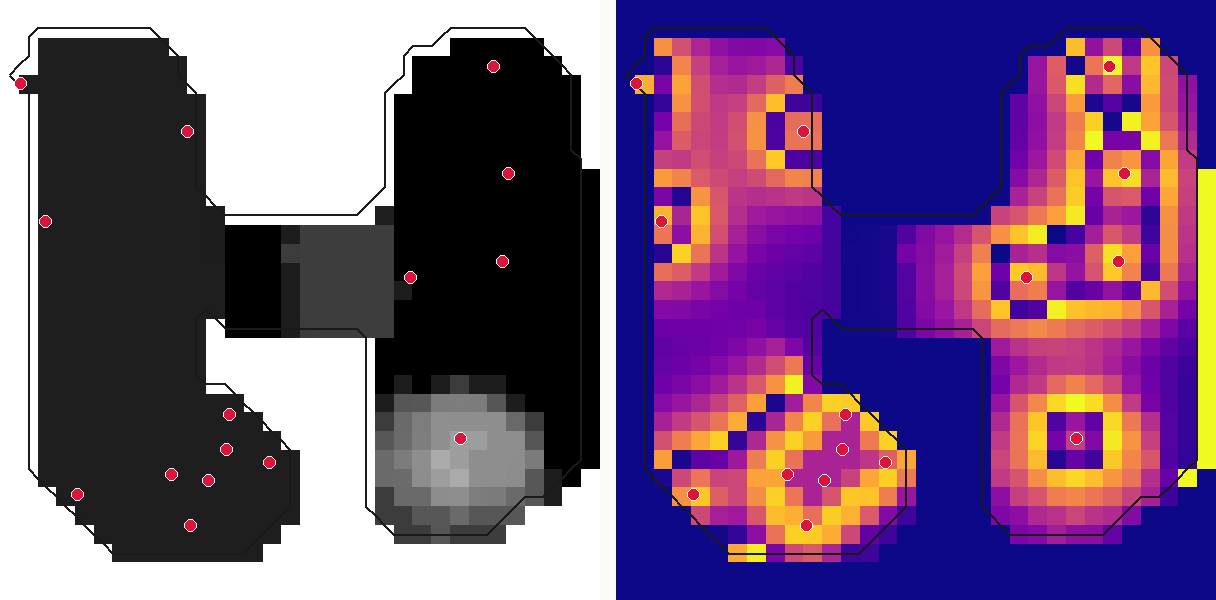
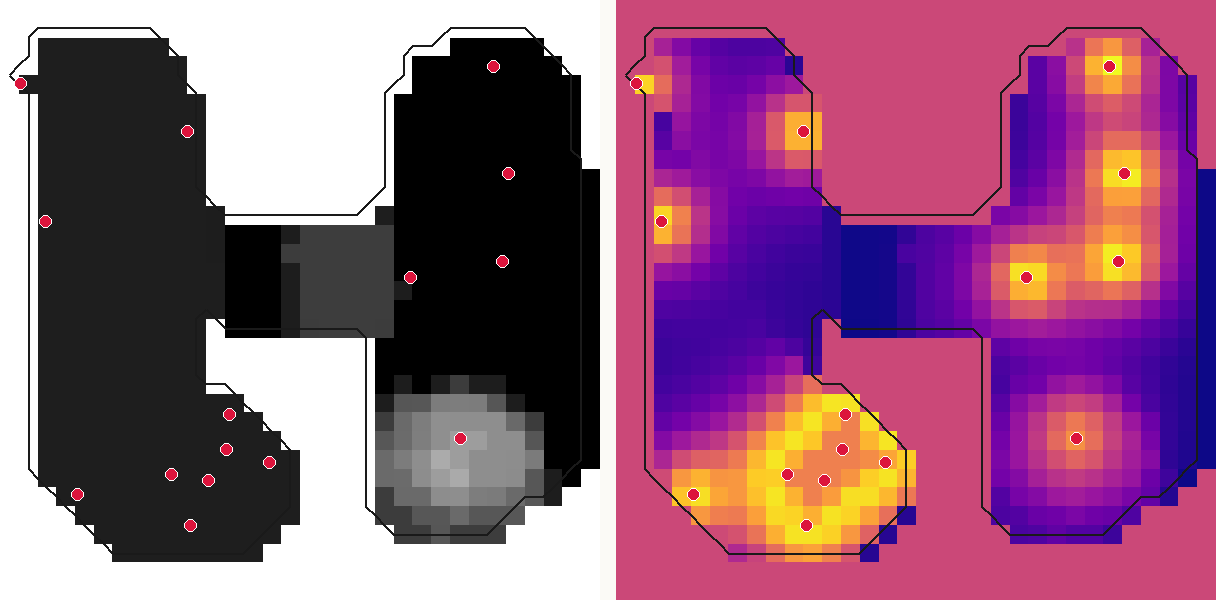
fix: make the case sheets and the motion legible
MapImage now normalises from the actual min to the actual max and clips before indexing the palette, so negative scores no longer wrap through a byte. The old plasma palette is back, paths have a grey start marker, and each case gets a gif plus a demand/walls/score layer strip in the README table.

diff --git a/scripts/figures.py b/scripts/figures.py
@@ -21,6 +21,7 @@ from emitter_optimizer.service.paths import (
     DEFAULT_SENSOR_FUNCTION,
     PROJECT_ROOT,
 )
+from scripts.situation import Situation
 from scripts.situations import PHYSICS, measure, situations
 
 FIGURES = PROJECT_ROOT / "docs" / "figures"
@@ -44,6 +45,48 @@ def _gif(start: np.ndarray, steps: list[np.ndarray], scene: Scene) -> bytes:
         loop=0,
     )
     return buffer.getvalue()
+
+
+def _case_gif(image: MapImage, start: np.ndarray, steps: list[np.ndarray]) -> bytes:
+    frames = [Image.open(BytesIO(image.png(start)))]
+    frames.extend(Image.open(BytesIO(image.png(step))) for step in steps)
+    buffer = BytesIO()
+    frames[0].save(
+        buffer,
+        format="GIF",
+        save_all=True,
+        append_images=frames[1:],
+        duration=80,
+        loop=0,
+    )
+    return buffer.getvalue()
+
+
+def _case(situation: Situation) -> tuple[bytes, bytes, bytes, float]:
+    steps: list[np.ndarray] = []
+
+    def capture(step: Step) -> None:
+        steps.append(np.asarray(step.positions))
+
+    result = measure(
+        situation,
+        iterations=20,
+        report_every=5,
+        on_step=capture,
+    )
+    coverage = Coverage(situation.scene, HardOcclusion(), PHYSICS)
+    image = MapImage(situation.scene, coverage, width=300)
+    layers = ContactSheet(columns=3).png([
+        (image.demand_png(result.positions), "demand"),
+        (image.walls_png(result.positions), "walls"),
+        (image.png(result.positions), "score"),
+    ])
+    return (
+        layers,
+        _case_gif(image, result.start, steps),
+        image.png(result.positions),
+        result.improvement,
+    )
 
 
 def main() -> None:
@@ -87,15 +130,10 @@ def main() -> None:
     (FIGURES / "descent.gif").write_bytes(_gif(start, trajectories, scene))
     cases: list[tuple[bytes, str]] = []
     for situation in situations():
-        case = measure(situation, iterations=20)
-        cases.append((
-            MapImage(
-                situation.scene,
-                Coverage(situation.scene, HardOcclusion(), PHYSICS),
-                width=300,
-            ).png(case.positions),
-            f"{situation.name}  {case.improvement:+.3f}",
-        ))
+        layers, animation, overview, improvement = _case(situation)
+        (FIGURES / f"case_{situation.name}.png").write_bytes(layers)
+        (FIGURES / f"case_{situation.name}.gif").write_bytes(animation)
+        cases.append((overview, f"{situation.name}  {improvement:+.3f}"))
     (FIGURES / "cases.png").write_bytes(ContactSheet(columns=3).png(cases))
 
 

diff --git a/src/emitter_optimizer/render/map.py b/src/emitter_optimizer/render/map.py
@@ -15,6 +15,7 @@ WALL_WIDTH = 2
 WALL = "#1a1a1a"
 EMITTER = "crimson"
 PATH = "white"
+START = "#6b7280"
 
 
 def _palette(name: str) -> np.ndarray:
@@ -51,6 +52,12 @@ class MapImage:
         )
         return self._png(values, positions, None, GREYS)
 
+    def walls_png(self, positions: Array | np.ndarray) -> bytes:
+        values = np.zeros(
+            (self.scene.grid.rows, self.scene.grid.columns), dtype=np.float64
+        )
+        return self._png(values, positions, None, GREYS)
+
     def _png(
         self,
         values: np.ndarray,
@@ -58,15 +65,17 @@ class MapImage:
         trajectories: Sequence[Array | np.ndarray] | None,
         palette: np.ndarray,
     ) -> bytes:
-        top = float(values.max()) if values.size else 0.0
-        normalised = values / top if top > 0 else np.zeros_like(values)
+        low = float(values.min()) if values.size else 0.0
+        high = float(values.max()) if values.size else 0.0
+        span = high - low
+        normalised = (values - low) / span if span > 0 else np.zeros_like(values)
         height = max(
             1,
             round(
                 self.width * float(self.scene.bounds[1]) / float(self.scene.bounds[0])
             ),
         )
-        indices = (normalised * 255.0).astype(np.uint8)
+        indices = np.clip(normalised * 255.0, 0.0, 255.0).astype(np.uint8)
         image = Image.fromarray(palette[indices], mode="RGB").resize(
             (self.width, height), Image.Resampling.NEAREST
         )
@@ -80,6 +89,10 @@ class MapImage:
                 fill=WALL,
                 width=WALL_WIDTH,
             )
+        if trajectories:
+            starts = np.asarray(trajectories[0])[:, :2] * scale
+            for x, y in starts:
+                draw.ellipse((x - 4, y - 4, x + 4, y + 4), outline=START, width=2)
         for path in trajectories or ():
             points = np.asarray(path)[:, :2] * scale
             draw.line([tuple(point) for point in points], fill=PATH, width=3)

diff --git a/scripts/situations.py b/scripts/situations.py
@@ -38,6 +38,8 @@ def measure(
     iterations: int = ITERATIONS,
     emitters: int = EMITTERS,
     seed: int = SEED,
+    report_every: int = 50,
+    on_step: Descender.StepCallback | None = None,
 ) -> Result:
     scene = situation.scene
     coverage = Coverage(scene, HardOcclusion(), PHYSICS)
@@ -47,14 +49,16 @@ def measure(
         emitters=emitters,
         steps=iterations,
         step_size=STEP_SIZE,
+        report_every=report_every,
         seed=seed,
     )
     started = time.perf_counter()
-    result = Descender(scene, PHYSICS, settings).run()
+    result = Descender(scene, PHYSICS, settings, on_step=on_step).run()
     seconds = time.perf_counter() - started
     return Result(
         situation,
         np.asarray(result.positions),
+        np.asarray(start),
         initial,
         float(result.gain),
         result.history,

diff --git a/scripts/result.py b/scripts/result.py
@@ -9,6 +9,7 @@ from scripts.situation import Situation
 class Result:
     situation: Situation
     positions: np.ndarray
+    start: np.ndarray
     initial_gain: float
     gain: float
     history: tuple[float, ...]

diff --git a/README.md b/README.md
@@ -1,4 +1,4 @@
-# Emitter Optimizer — where the emitters should go
+# Emitter Optimizer — where the "emitters" should go
 
 [![License: Apache 2.0](https://img.shields.io/badge/License-Apache%202.0-green.svg)](LICENSE)
 [![Python 3.14+](https://img.shields.io/badge/Python-3.14%2B-yellow.svg)](https://www.python.org/)
@@ -51,13 +51,52 @@ emitter in front of it, whatever the distance.*
 
 ## Five situations, one engine
 
-<p align="center">
-  <img src="docs/figures/cases.png" alt="Five situations: uniform, farm, building, shop, wide" width="95%">
-</p>
+<table>
+  <thead>
+    <tr><th>Case</th><th>Simulation</th><th>Layers</th><th>What it shows</th></tr>
+  </thead>
+  <tbody>
+    <tr>
+      <td><strong>uniform</strong></td>
+      <td><img src="docs/figures/case_uniform.gif" alt="uniform" width="260"></td>
+      <td><img src="docs/figures/case_uniform.png" alt="demand, walls, score" width="480"></td>
+      <td>No density, no walls: the emitters spread out. The three layers are demand, walls and score, in that order.</td>
+    </tr>
+    <tr>
+      <td><strong>farm</strong></td>
+      <td><img src="docs/figures/case_farm.gif" alt="farm" width="260"></td>
+      <td><img src="docs/figures/case_farm.png" alt="demand, walls, score" width="480"></td>
+      <td>Crop rows and a hedge with a gate: the wall makes the gate decisive.</td>
+    </tr>
+    <tr>
+      <td><strong>building</strong></td>
+      <td><img src="docs/figures/case_building.gif" alt="building" width="260"></td>
+      <td><img src="docs/figures/case_building.png" alt="demand, walls, score" width="480"></td>
+      <td>Two rooms and a corridor: the signal crosses a doorway, not a wall.</td>
+    </tr>
+    <tr>
+      <td><strong>shop</strong></td>
+      <td><img src="docs/figures/case_shop.gif" alt="shop" width="260"></td>
+      <td><img src="docs/figures/case_shop.png" alt="demand, walls, score" width="480"></td>
+      <td>Three demand peaks without walls: the emitters choose between them.</td>
+    </tr>
+    <tr>
+      <td><strong>wide</strong></td>
+      <td><img src="docs/figures/case_wide.gif" alt="wide" width="260"></td>
+      <td><img src="docs/figures/case_wide.png" alt="demand, walls, score" width="480"></td>
+      <td>A map twice as wide as tall: the geometry changes, the model does not.</td>
+    </tr>
+    <tr>
+      <td><strong>incoming</strong></td>
+      <td colspan="3">Varieties, 3D volumes and crystal lattices reuse the same signal → score → mean chain; only the representation of the space changes.</td>
+    </tr>
+  </tbody>
+</table>
 
-*The same engine on a farm, a building, a shop and a wide map, each with its
-own demand and walls; the number is the gain from the random start. `just
-bench` writes the table and one figure per case.*
+The emitter and sensor laws are the same in every row (`settings/emitter.py`
+and `settings/sensor.py`); the demand, the walls and the grid are the only
+things that change. Each GIF is the first twenty iterations; the layer strip
+reads demand, walls, score, with the emitters in crimson.
 
 ## How the emitters move
 
@@ -65,9 +104,9 @@ bench` writes the table and one figure per case.*
   <img src="docs/figures/paths.png" alt="The path of each emitter over the score" width="70%">
 </p>
 
-*Every emitter leaves a dot and climbs, step after step, toward the demand
-it serves. The pull is the exact gradient of the score; it vanishes through a
-wall, so no emitter crosses one.*
+*The grey circle is where an emitter starts, the crimson dot where it ends,
+and the white line is its trajectory over the score. The pull is the exact
+gradient of the score; it vanishes through a wall, so no emitter crosses one.*
 
 1. **The map becomes a grid.** Rows, columns, and a scale in map units; a
    density image is resized to it, a collision mask becomes segments.
@@ -83,6 +122,23 @@ JAX compiles the gain; the kernel stays a handful of files and takes its
 gradient by autodiff.
 
 ## The model
+
+The whole model is four assignments:
+
+```text
+s(e, x) = phi(||e - x||) * pass_C(x, e)
+r(x)    = sum_e s(e, x)
+score(x) = psi(r(x)) * mu(x)
+gain     = mean_x score(x)
+```
+
+`phi` is the emitter law, `psi` the sensor law, `mu` the density, and
+`pass_C(x, e)` the share of the sight line from `x` to `e` that no wall blocks.
+The grid is one representation; a voxel grid, a manifold or a 3D lattice can
+replace it as long as distance, visibility and measure are defined. That is
+the whole extension point.
+
+### The formal version
 
 The score is the **gain** $\mathcal G_P$, maximized over the emitter positions
 $U$. The parameters are $P := (E, \mu, C)$:
